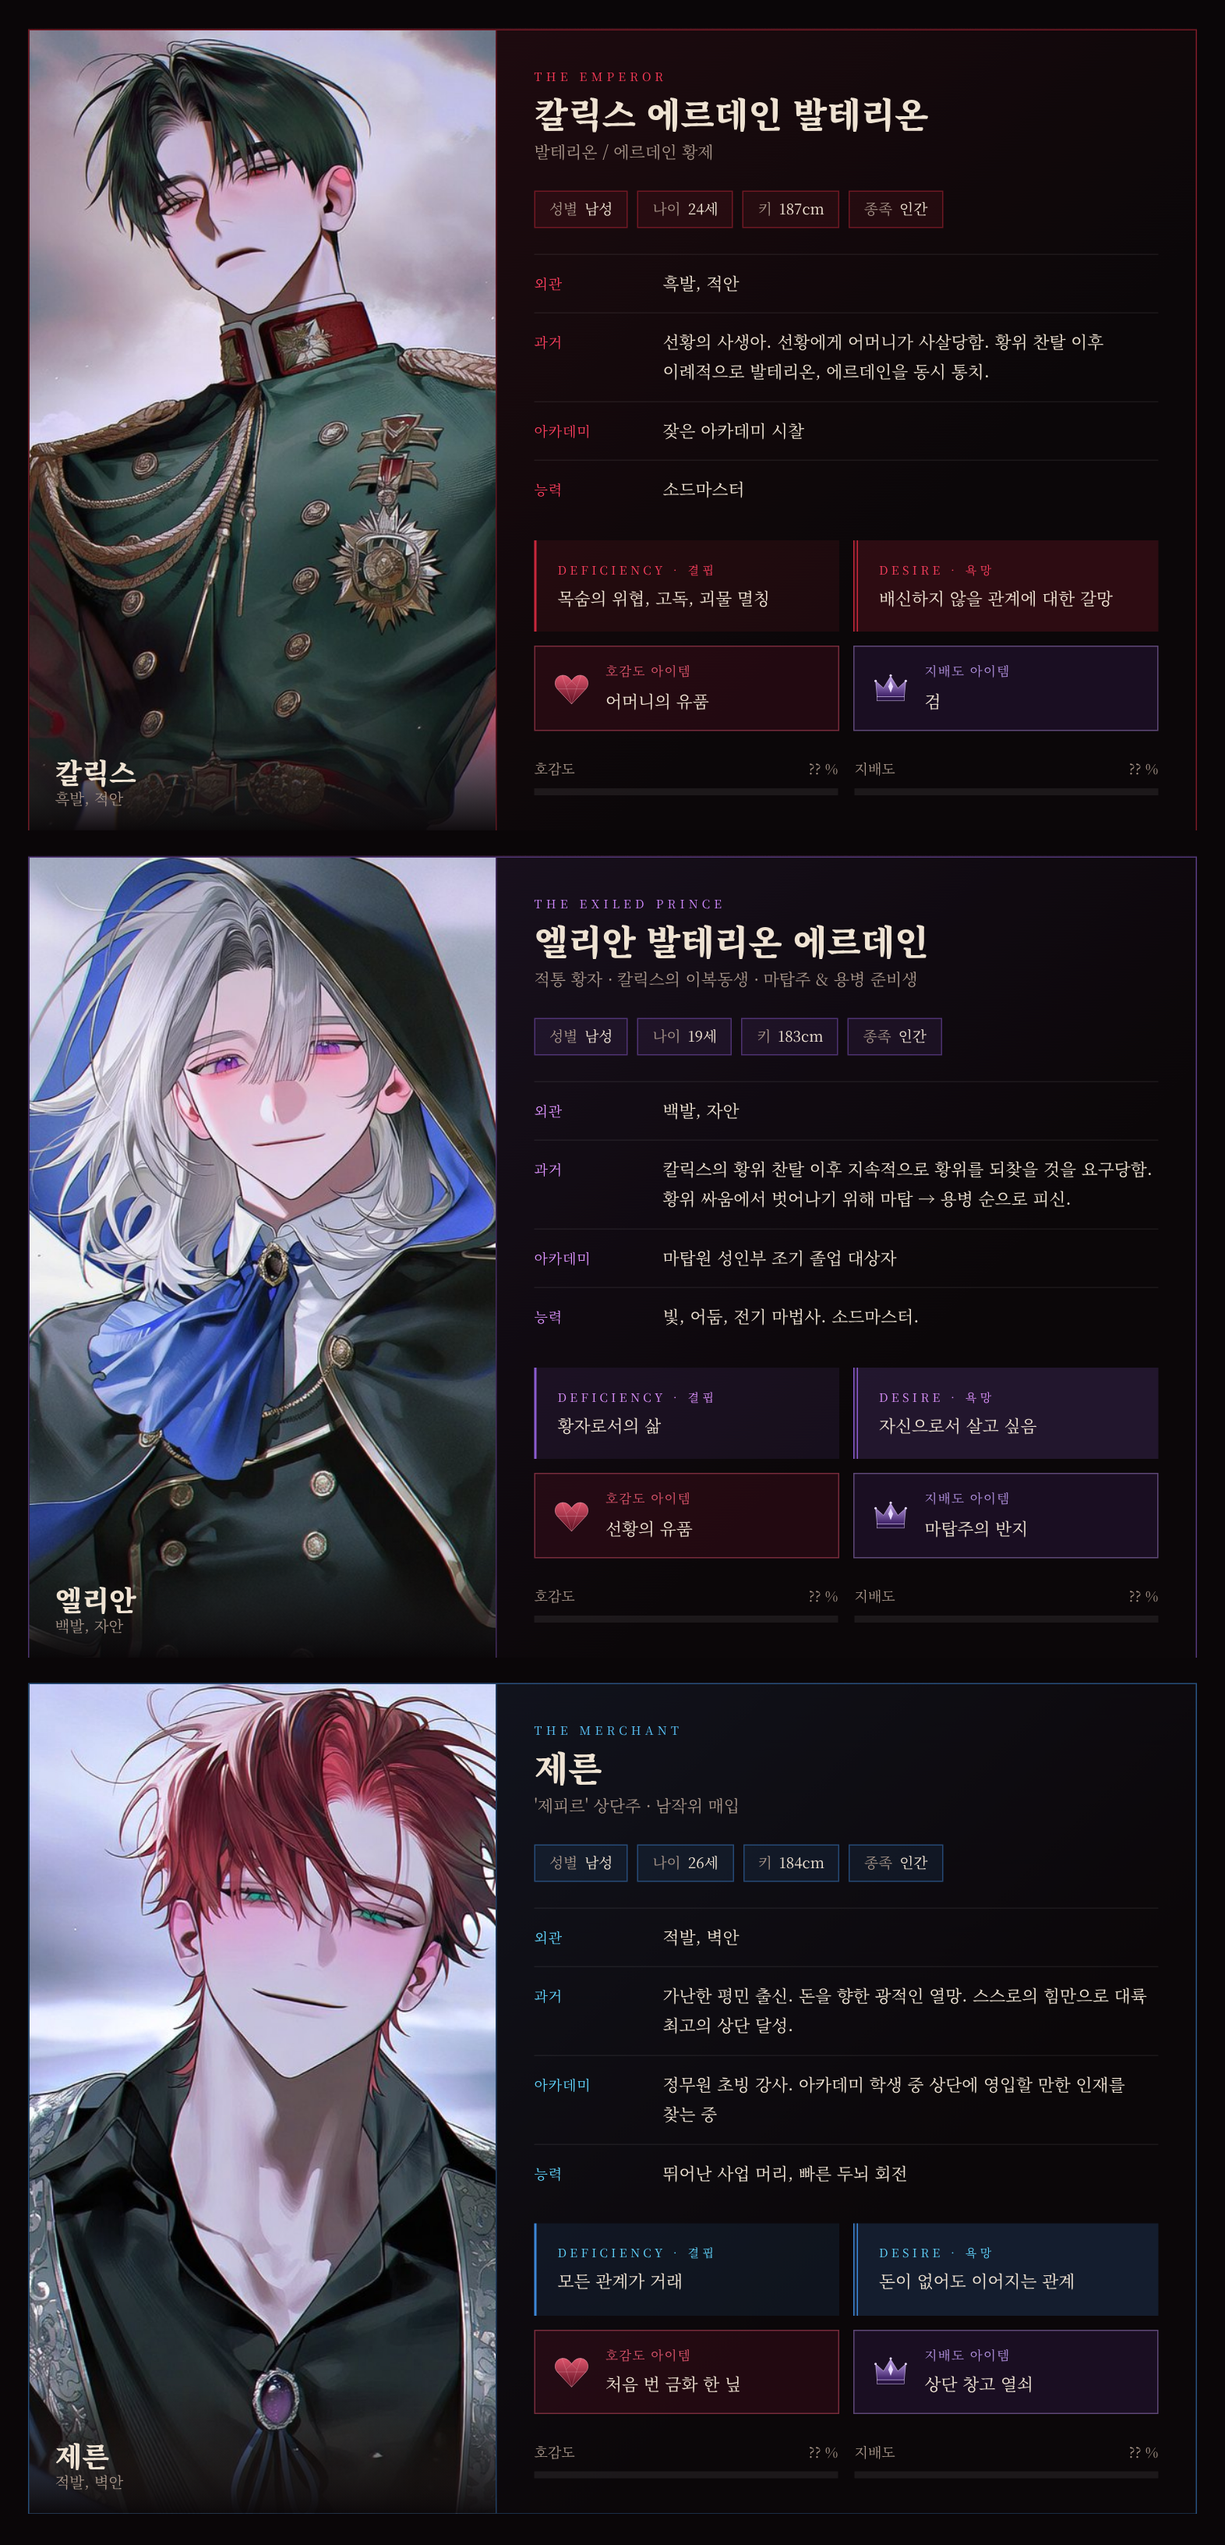
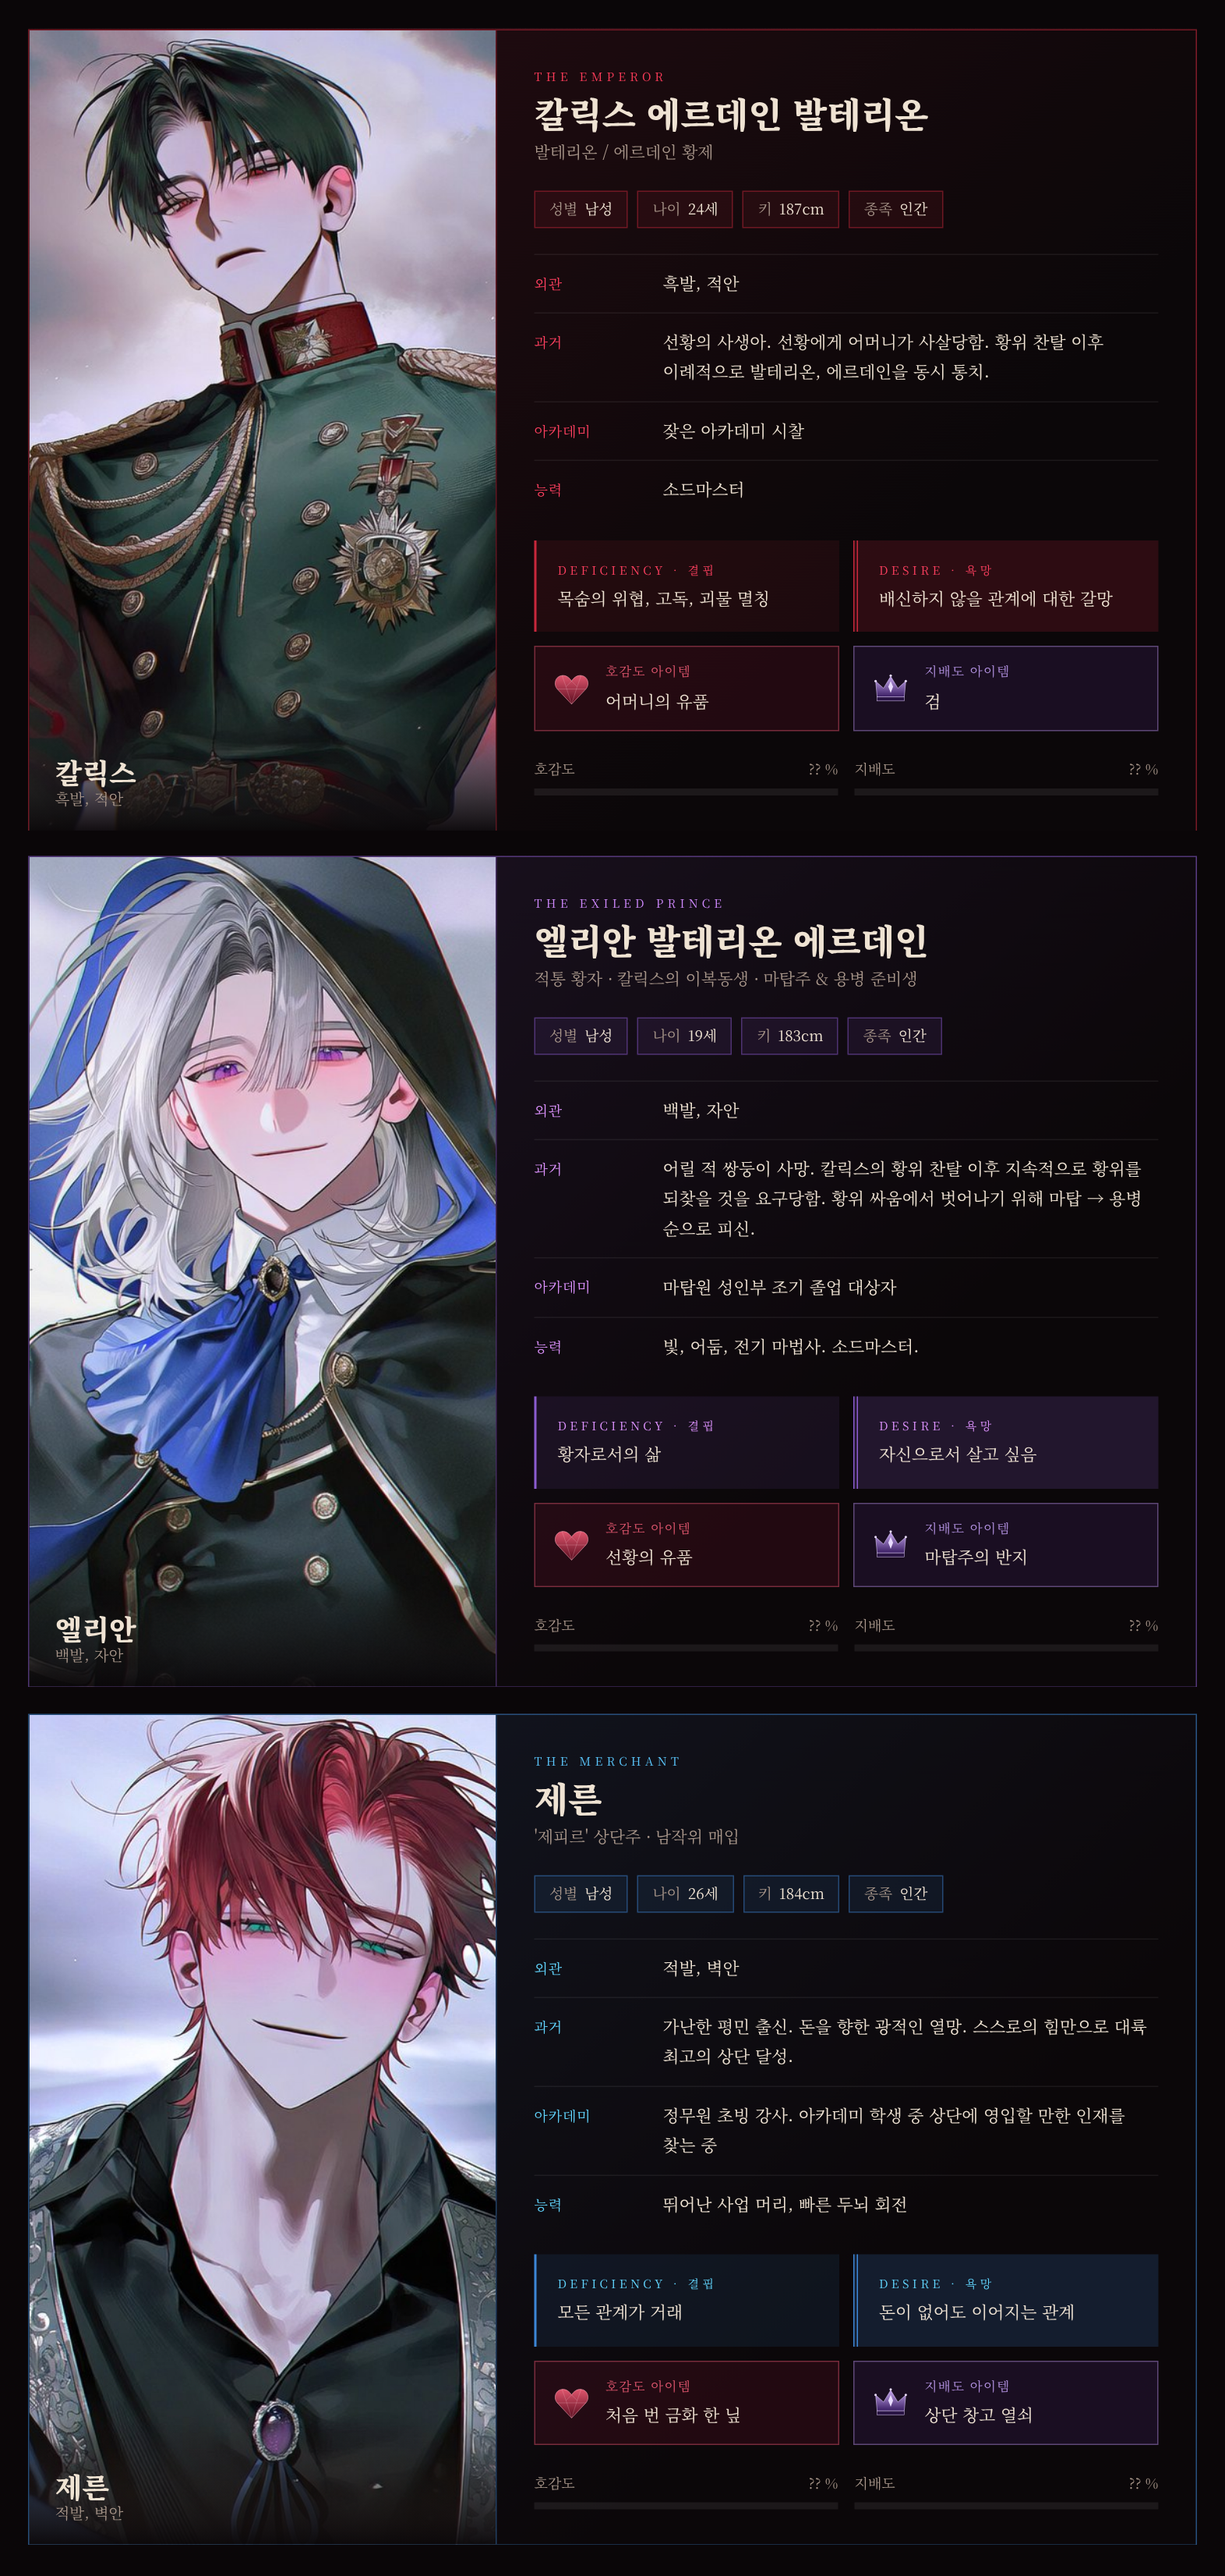
Add files via upload

diff --git a/index.html b/index.html
@@ -936,7 +936,7 @@ const CHARS = [
     gender:"남성", age:"19세", height:"183cm", race:"인간",
     academy:"마탑원 성인부 조기 졸업 대상자",
     look:"백발, 자안",
-    past:"칼릭스의 황위 찬탈 이후 지속적으로 황위를 되찾을 것을 요구당함. 황위 싸움에서 벗어나기 위해 마탑 → 용병 순으로 피신.",
+    past:"어릴 적 쌍둥이 사망. 칼릭스의 황위 찬탈 이후 지속적으로 황위를 되찾을 것을 요구당함. 황위 싸움에서 벗어나기 위해 마탑 → 용병 순으로 피신.",
     lack:"황자로서의 삶", want:"자신으로서 살고 싶음",
     ability:"빛, 어둠, 전기 마법사. 소드마스터.",
     likeItem:"선황의 유품", ruleItem:"마탑주의 반지"
